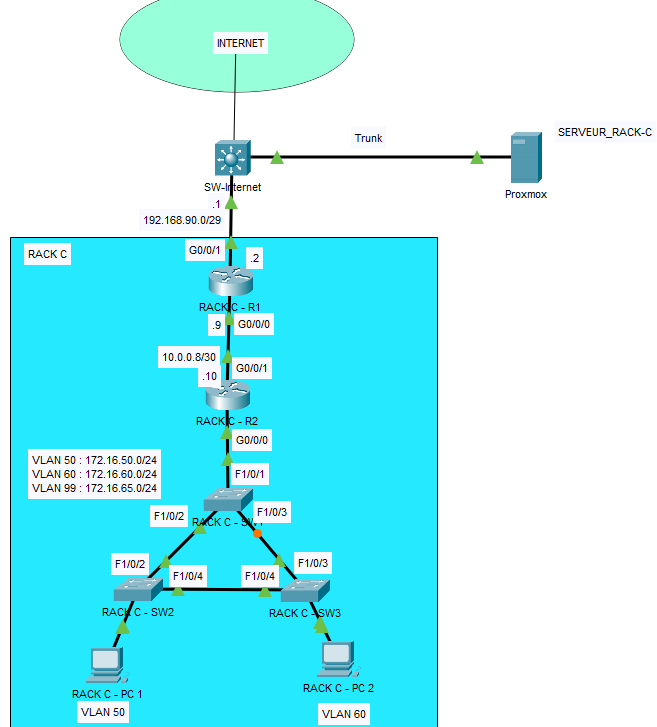
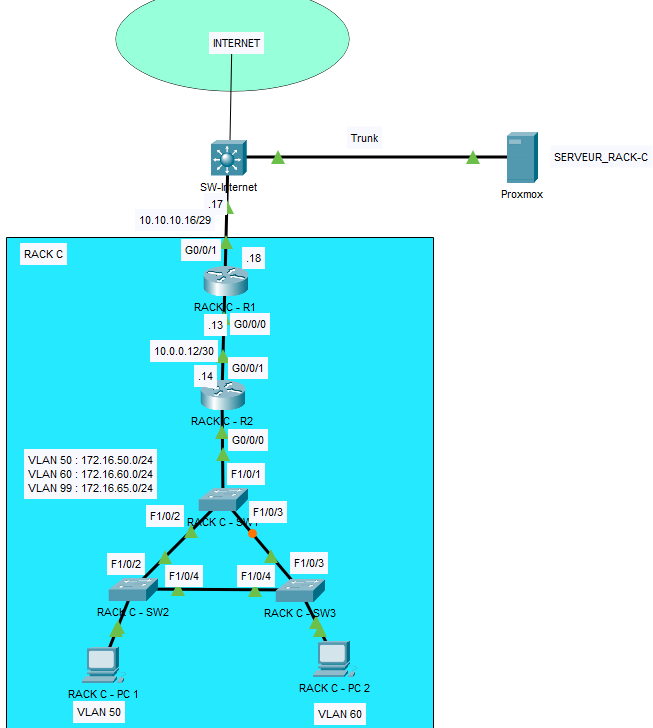
changed the ip ranges on the topo

diff --git a/README.md b/README.md
@@ -11,7 +11,7 @@ Pour communiquer avec moi directement, vous pouvez me joindre à l’adresse sui
 
 ## Topologie utilisée pour les laboratoires 1 à 4
 
-![Topo](topo/topo1-3.png)
+![Topo](topo/topo1-4.png)
 
 ## Serveurs pour les racks
 
